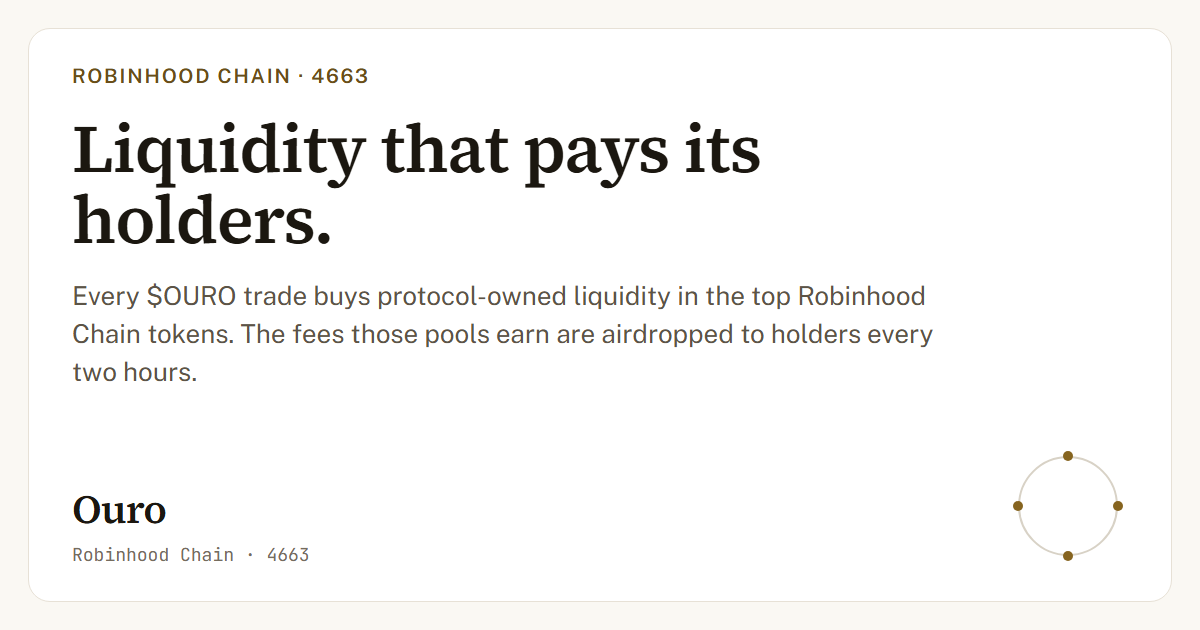
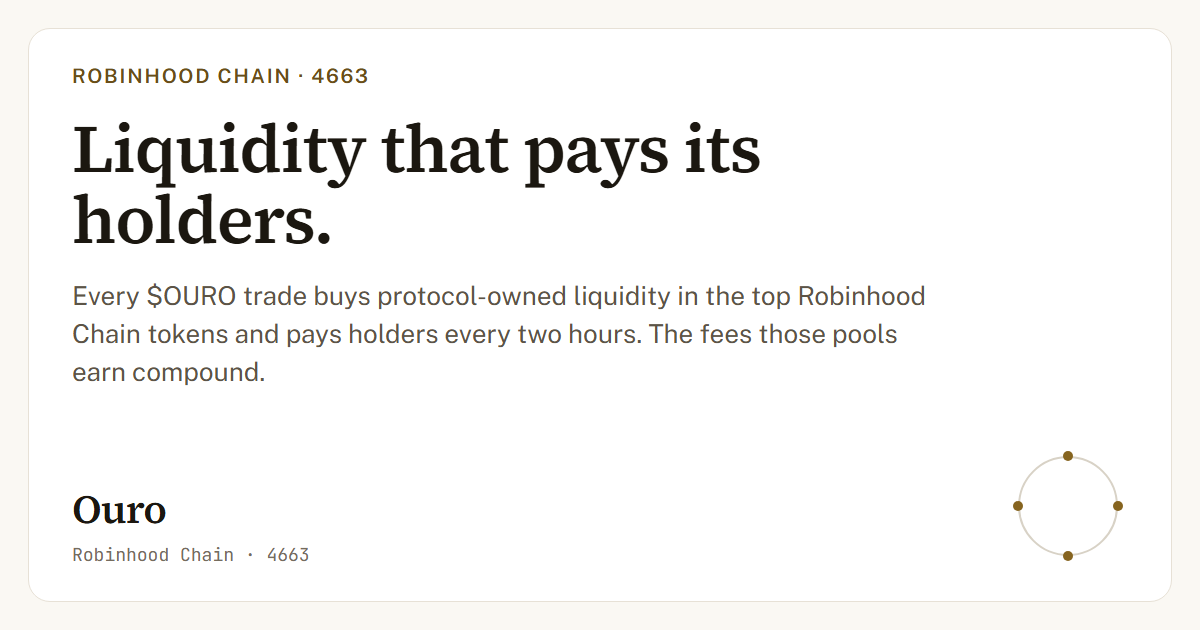
docs: 100% swap fee compounds LP copywriting updates

Changed region(s): [[0.185, 0.5127, 0.7708, 0.5429], [0.0617, 0.573, 0.2158, 0.6032]]

diff --git a/apps/site/app/content/protocol.ts b/apps/site/app/content/protocol.ts
@@ -4,20 +4,24 @@ import { site } from "./site";
  * Fees are left in the positions until they are worth collecting.
  *
  * A collect is a transaction, and so is moving what it returns. Sweeping $4 of fees costs a
- * meaningful fraction of $4, and that cost would come out of the airdrop. So the Reserve's positions
- * accrue until the threshold below has built up across all of them, and only then is a collection
- * taken and split on the usual 80 / 20 — four fifths to the wallet the Airdropper pays from, one
- * fifth compounded straight back into the positions. (Stated in dollars rather than percentages
- * here because the numbers are derived below, so the two cannot drift apart.) Nothing is lost by
- * waiting: uncollected fees sit in the position still earning, and the Ledger publishes the running
- * figure against the threshold.
+ * meaningful fraction of $4, and that cost would come straight out of what goes back into the pools.
+ * So the Reserve's positions accrue until the threshold below has built up across all of them, and
+ * only then is a collection taken. Nothing is lost by waiting: uncollected fees sit in the position
+ * still earning, and the Ledger publishes the running figure against the threshold.
  *
  * Protocol policy, not a contract rule.
  */
 export const COLLECT_THRESHOLD_USD = 100;
 
-/** Share of every collection airdropped to holders; the rest compounds into the Reserve. */
-export const FEE_SPLIT_HOLDERS_PCT = 80;
+/**
+ * Share of every collection that compounds straight back into the Reserve's positions.
+ *
+ * 100 since 2026-09-15, when the airdrop's fee leg was retired: until then it was 80 to holders and
+ * 20 back into the positions. The same move as the tax rebalance and the vault performance fee, both
+ * made the same day and for the same reason: a dollar handed out pays once, a dollar put back into a
+ * pool goes on earning. The airdrop is the tax's 1% leg now, and nothing else.
+ */
+export const FEE_SPLIT_RESERVE_PCT = 100;
 
 /** The tax on every buy and sell, in ETH. Fixed in letscash's hook at launch; not ours to change. */
 export const TRADE_TAX_PCT = 5;
@@ -52,22 +56,16 @@ export const TAX_SPLIT: SplitLeg[] = [
   { label: "letscash: the launchpad's platform fee", short: "letscash", pct: 0.3, tone: "faint" },
 ];
 
+/** One leg since 2026-09-15, kept as a split so the bar, the rows and the table read it as they read the tax. */
 export const FEE_SPLIT: SplitLeg[] = [
-  { label: "Holders: airdropped to every wallet above the line, as earned", short: "holders", pct: FEE_SPLIT_HOLDERS_PCT, tone: "ink" },
-  { label: "Reserve: tops up the positions, so the next cycle earns more", short: "Reserve", pct: 100 - FEE_SPLIT_HOLDERS_PCT, tone: "accent" },
+  { label: "Reserve: every fee goes back into the positions, so the next cycle earns more", short: "Reserve", pct: FEE_SPLIT_RESERVE_PCT, tone: "accent" },
 ];
 
-/** "3.3%", "0.4%", "80%": a leg's share, with no trailing zero on a whole number. */
+/** "3.3%", "0.4%", "100%": a leg's share, with no trailing zero on a whole number. */
 export const legPct = (leg: SplitLeg) => `${leg.pct}%`;
 
-/** "80 / 20": the fee split as one figure, for a heading and for the parameter table. */
-export const FEE_SPLIT_LABEL = FEE_SPLIT.map((l) => String(l.pct)).join(" / ");
-
-/** How a collection at the threshold divides, in whole dollars. Derived, so the copy cannot drift. */
-export const COLLECTION_SPLIT_USD = {
-  holders: (COLLECT_THRESHOLD_USD * FEE_SPLIT_HOLDERS_PCT) / 100,
-  reserve: (COLLECT_THRESHOLD_USD * (100 - FEE_SPLIT_HOLDERS_PCT)) / 100,
-};
+/** "100%": what a collection does, as one figure, for a heading and for the parameter table. */
+export const FEE_SPLIT_LABEL = FEE_SPLIT.map((l) => legPct(l)).join(" / ");
 
 /** The balance a wallet needs to be paid by the airdrop, in whole OURO. "The line" everywhere on the site. */
 export const LINE_TOKENS = 100_000;
@@ -183,8 +181,9 @@ export const RESERVE_V4_POSITIONS: V4PositionEntry[] = [
 /**
  * A token the airdrop pays in, for marking a wallet's holdings on /portfolio and the calculator's slice.
  *
- * The basket is CASHCAT, PONS, AI and microduck today. WETH is listed because the fee leg arrives as the pools
- * earned it (docs §05) and the airdrop wallet's queue already carries a WETH line. ouro-monitor names
+ * The basket is CASHCAT, PONS, AI and microduck today. WETH is listed because the airdrop wallet's queue
+ * carries a WETH line, and because the payouts made before the fee leg was retired on 2026-09-15 passed
+ * pool fees through in WETH, which /portfolio still has to mark. ouro-monitor names
  * every token a wallet holds and every token a payment carried, so a new constituent shows up on the
  * page before it is added here; this list is where each token's mark and its display name live.
  */
@@ -262,11 +261,11 @@ export const PARAMETERS: ParameterRow[] = [
   { parameter: "Trade tax", value: `${TRADE_TAX_PCT}% of the ETH leg`, mutable: "Fixed at launch" },
   { parameter: "Pool LP fee", value: "0%", mutable: "Fixed at creation" },
   { parameter: "Tax split", value: TAX_SPLIT.map((l) => `${legPct(l)} ${l.short}`).join(" / "), mutable: "Policy" },
-  { parameter: "Fee split: holders / Reserve", value: FEE_SPLIT_LABEL, mutable: "Policy" },
+  { parameter: "Pool fees", value: `${FEE_SPLIT_LABEL} compounded into the Reserve`, mutable: "Policy" },
   { parameter: "Airdrop minimum", value: "100,000 OURO (0.01%)", mutable: "Policy" },
   { parameter: "Fee collection threshold", value: "$100 of accrued LP fees", mutable: "Policy" },
   { parameter: "Airdrop cadence", value: "Every 2 hours", mutable: "Policy" },
-  { parameter: "Stream length", value: "~48 hours per collection", mutable: "Policy" },
+  { parameter: "Stream length", value: "~48 hours per wallet top-up", mutable: "Policy" },
   { parameter: "Basket", value: "CASHCAT + PONS + AI + microduck, toward ~5", mutable: "Policy" },
   { parameter: "Chain", value: "Robinhood Chain (4663)", mutable: "Fixed" },
 ];

diff --git a/apps/site/app/routes/docs.tsx b/apps/site/app/routes/docs.tsx
@@ -5,7 +5,6 @@ import type { Route } from "./+types/docs";
 import { Callout, LedgerTable, type LedgerColumn } from "@ouro/ds";
 import { AddressCell, Container, MicroLabel, PageHeader, PendingCell, SplitBar, SplitRows, fitTable, legRows, legWedges, mono } from "~/components/site";
 import {
-  COLLECTION_SPLIT_USD,
   COLLECT_THRESHOLD_USD,
   FEE_SPLIT,
   INFRASTRUCTURE,
@@ -74,7 +73,7 @@ const addrCols = (label: string): LedgerColumn[] => [
 ];
 
 const CANT: { lead: string; text: string }[] = [
-  { lead: "Can't mint.", text: " Fixed supply. Airdrops are fees already earned." },
+  { lead: "Can't mint.", text: " Fixed supply. Airdrops are bought with tax already paid." },
   { lead: "Can't change the tax.", text: " 5% is fixed in the letscash hook." },
   { lead: "Can't touch your wallet.", text: " Standard ERC20. No freeze, seize or clawback." },
 ];
@@ -82,13 +81,13 @@ const CANT: { lead: string; text: string }[] = [
 const FAQ: { q: string; a: string }[] = [
   {
     q: "How is Ouro different from HOOD10 or The Index?",
-    a: "They hand out every tax point, so payouts stop when volume cools. Ouro keeps 3.3% of a trade as fee-earning liquidity, airdrops 1% outright, and airdrops 80% of the fees that liquidity earns.",
+    a: "They hand out every tax point and keep nothing. Ouro airdrops 1% of a trade and keeps 3.3% as fee-earning liquidity it never hands out, and every fee that liquidity earns goes back into it.",
   },
   { q: "What do I have to do to get paid?", a: "Hold at least 100,000 $OURO in your own wallet. No stake, lock or claim. Exchange and bridge balances do not count." },
   { q: "I hold less than 100,000 $OURO. What then?", a: "Pool with others in the vaults. Deposits clear the line together; you earn in OURO, ETH or dollars." },
   {
     q: "What am I paid in, and when?",
-    a: "Tokens, every two hours. The tax leg is bought at market; the fee leg arrives as the pools earned it, usually basket tokens plus WETH.",
+    a: "Tokens, every two hours. Basket tokens, bought at market with the tax and handed out in kind.",
   },
   { q: "Is the basket safe? Are these stocks?", a: "No. They are crypto tokens on Robinhood Chain, including memecoins. They can go to zero." },
   {
@@ -144,7 +143,7 @@ export default function Docs() {
           <Doc id="d01" n="01" title="Overview">
             <P>
               A 5% tax on every $OURO trade buys tokens: 3.3% becomes protocol-owned liquidity (the Reserve), 1% is airdropped to holders, 0.7% covers ops and
-              the launchpad. 80% of the Reserve&apos;s fees are airdropped too.
+              the launchpad. Every fee the Reserve earns goes back into the Reserve.
             </P>
           </Doc>
 
@@ -155,7 +154,7 @@ export default function Docs() {
           </Doc>
 
           <Doc id="d03" n="03" title="The Loop">
-            <P>Each cycle deploys the accumulated tax on the split above and collects fees from the Reserve. Those fees split again:</P>
+            <P>Each cycle deploys the accumulated tax on the split above and collects fees from the Reserve. Those fees are not split. All of them go back in:</P>
             <SplitBar wedges={legWedges(FEE_SPLIT)} />
             <SplitRows rows={legRows(FEE_SPLIT)} />
           </Doc>
@@ -170,15 +169,15 @@ export default function Docs() {
 
           <Doc id="d05" n="05" title="The airdrop">
             <P>
-              Two legs: the tax leg, bought at market, and 80% of Reserve fees, passed through as the pools earned them. Hold at least 100,000 $OURO in your own
-              wallet. Nothing to stake, lock or claim.
+              One leg: 1% of every trade, bought at market and handed out in kind. Hold at least 100,000 $OURO in your own wallet. Nothing to stake, lock or
+              claim. What the Reserve earns is not part of it; that goes back into the pools.
             </P>
             <SplitRows
               rows={[
                 { label: "The line", value: "100,000 OURO · 0.01% of supply" },
                 { label: "Cadence", value: "Every 2 hours" },
-                { label: "Fees are collected once they reach", value: `${usd0(COLLECT_THRESHOLD_USD)} · then ${usd0(COLLECTION_SPLIT_USD.holders)} airdropped, ${usd0(COLLECTION_SPLIT_USD.reserve)} compounded` },
-                { label: "A collection is streamed over", value: "About 48 hours" },
+                { label: "Paid in", value: "Basket tokens, bought at market" },
+                { label: "A top-up of the airdrop wallet is streamed over", value: "About 48 hours" },
               ]}
             />
             <Callout title="What makes a cycle wait" style={{ marginTop: 14 }}>
@@ -212,11 +211,11 @@ export default function Docs() {
 
           <Doc id="d08" n="08" title="Risks">
             <P>
-              The tax leg tracks volume and stops with it. The fee leg needs pool fees. The basket can go to zero. LP can lose to holding. 5% both ways is
-              expensive for short-term trading. The rails are letscash&apos;s. One chain.
+              The airdrop is the tax leg alone, so it tracks volume and stops with it. The Reserve goes on earning either way, but that stays in the pools. The
+              basket can go to zero. LP can lose to holding. 5% both ways is expensive for short-term trading. The rails are letscash&apos;s. One chain.
             </P>
             <Callout tone="caution" title="No promises" style={{ marginTop: 14 }}>
-              An airdrop is a share of fees already earned. Not a yield promise. Not financial advice. Don&apos;t risk more than you can lose.
+              An airdrop is a share of tax already paid. Not a yield promise. Not financial advice. Don&apos;t risk more than you can lose.
             </Callout>
           </Doc>
 

diff --git a/apps/site/app/routes/home.tsx b/apps/site/app/routes/home.tsx
@@ -213,9 +213,9 @@ function LineBand() {
 /* ------------------------------------------------------------- The split */
 
 /**
- * The two splits the whole protocol runs on, as bars: what the 5% tax buys, and what a collection of
- * pool fees pays. The figures come from content/protocol, which the docs and the parameter table read
- * too, so the three places the site states them cannot drift apart.
+ * The two bars the whole protocol runs on: what the 5% tax buys, and where a collection of pool fees
+ * goes. The figures come from content/protocol, which the docs and the parameter table read too, so
+ * the three places the site states them cannot drift apart.
  */
 function SplitSection() {
   return (
@@ -223,7 +223,7 @@ function SplitSection() {
       <SectionHead
         kicker="The split"
         title="Where every trade goes."
-        sub="Two splits, and both are published. One divides the tax a trade pays, the other divides what the Reserve earns."
+        sub="Both are published. The tax a trade pays divides four ways. What the Reserve earns is not divided at all."
         action={<Link to="/docs/#d02">The method →</Link>}
       />
       <div className="cols-2">
@@ -238,7 +238,7 @@ function SplitSection() {
         <div>
           <div className="split-block__head">
             <span className="split-block__figure">{FEE_SPLIT_LABEL}</span>
-            <span className="split-block__note">of every fee the Reserve collects, once the accrued fees are worth a collection.</span>
+            <span className="split-block__note">of every fee the Reserve collects, back into the positions that earned it, once a collection is worth taking.</span>
           </div>
           <SplitBar wedges={legWedges(FEE_SPLIT)} />
           <SplitRows rows={legRows(FEE_SPLIT)} />
@@ -254,7 +254,7 @@ const STEPS: { n: string; title: string; text: string }[] = [
   { n: "01", title: "Trade", text: "Every $OURO swap pays a 5% tax, in ETH." },
   { n: "02", title: "Buy", text: "3.3% buys liquidity in the chain's deepest pools. 1% buys tokens for holders." },
   { n: "03", title: "Own", text: "That liquidity is the Reserve. The protocol keeps it." },
-  { n: "04", title: "Yield", text: "The Reserve earns swap fees. 80% is airdropped, 20% compounds." },
+  { n: "04", title: "Compound", text: "The Reserve earns swap fees. 100% goes back into compounding the LP." },
 ];
 
 /** The same four, for the plate: it takes them as a prop so the figure and the list cannot disagree. */
@@ -418,8 +418,8 @@ const CMP_HEAD: { label: string; sym: string | null; ouro?: boolean }[] = [
 
 const CMP_ROWS: [string, string, string, string][] = [
   ["What the tax buys", "All handed out", "All handed out", "1% out, 3.3% kept as LP"],
-  ["Holders are paid from", "The tax", "The tax", "Tax + pool fees"],
-  ["When volume cools", "Payouts stop", "Payouts stop", "Pools keep earning"],
+  ["What the protocol keeps", "Nothing", "Nothing", "The Reserve, for good"],
+  ["When volume cools", "Payouts stop", "Payouts stop", "Payouts thin, the Reserve keeps earning"],
 ];
 
 function DifferenceSection() {
@@ -477,7 +477,7 @@ const ROADMAP: { n: string; horizon: string; title: string; body: ReactNode }[] 
     n: "02",
     horizon: "Medium term",
     title: "Build the Reserve up",
-    body: "Keep buying protocol-owned liquidity with every trade. Deeper positions earn more fees, and 80% of those fees is what the airdrop pays.",
+    body: "Keep buying protocol-owned liquidity with every trade. Deeper positions earn more fees, and all of those fees go straight back into them.",
   },
   {
     n: "03",

diff --git a/apps/analytics/app/routes/airdrops.tsx b/apps/analytics/app/routes/airdrops.tsx
@@ -4,7 +4,7 @@ import type { Route } from "./+types/airdrops";
 import { Badge, Button, Callout, Card, Input, LedgerTable, Stat, Tabs, type BadgeTone, type LedgerColumn } from "@ouro/ds";
 import { OuroFoot } from "~/components/OuroFoot";
 import { Bars, Container, KVRow, PageHeader, Pager, SectionHead, body14, mono } from "~/components/site";
-import { COLLECT_THRESHOLD_USD, LINE_TOKENS, TOTAL_SUPPLY_TOKENS } from "~/content/protocol";
+import { LINE_TOKENS, TOTAL_SUPPLY_TOKENS } from "~/content/protocol";
 import { externalLinkProps, ouroUrl, site } from "~/content/site";
 import { useClock } from "~/hooks/useClock";
 import { pageMeta } from "~/lib/meta";
@@ -63,8 +63,6 @@ const CYCLE_COLS: LedgerColumn[] = [
 const HISTORY_PAGE_SIZE = 12;
 /** Cycles the table holds, newest first; the totals above it come from every day, not from these. */
 const TABLE_CYCLES = 50;
-
-const THRESHOLD = `$${COLLECT_THRESHOLD_USD.toLocaleString("en-US")}`;
 
 /** The transactions that paid a cycle, in the order they landed. A cycle number can be paid more than once. */
 function cycleTxs(c: OuroCycle): string[] {
@@ -311,7 +309,6 @@ export default function Airdrops() {
   const ethUsd = reserve.data?.positions.flatMap((p) => [p.side0, p.side1]).find((s) => s.symbol === "WETH")?.priceUsd ?? null;
   const hookEth = pending.data?.pendingWei ? Number(pending.data.pendingWei) / 1e18 : null;
   const hookUsd = hookEth === null || ethUsd === null ? null : hookEth * ethUsd;
-  const uncollected = reserve.data?.totals.uncollectedFeesUsd ?? null;
 
   return (
     <Container className="page">
@@ -371,10 +368,10 @@ export default function Airdrops() {
         </div>
         <Card label="On its way">
           <KVRow label="01 · Tax still in the letscash hook" value={hookUsd !== null ? fmtUsd(hookUsd) : hookEth !== null ? `${fmtEth(hookEth)} ETH` : "—"} py={12} />
-          <KVRow label="02 · Collected into the airdrop wallet" value={fmtUsd(pending.data?.queuedUsd ?? null)} py={12} />
-          <KVRow label={`03 · LP fees accrued, of the ${THRESHOLD} threshold`} value={fmtUsd(uncollected)} py={12} border="none" />
+          <KVRow label="02 · Collected into the airdrop wallet" value={fmtUsd(pending.data?.queuedUsd ?? null)} py={12} border="none" />
           <div className="card-foot" style={{ marginTop: 6 }}>
-            None of these is a scheduled amount. A collection streams out over about 48 hours, so this is the pool the next several cycles draw from.
+            Neither of these is a scheduled amount. Each top-up streams out over about 48 hours, so this is the pool the next several cycles draw from. The
+            fees the Reserve earns are not on this list: they compound back into the pools.
           </div>
         </Card>
       </div>

diff --git a/apps/analytics/app/routes/ledger.tsx b/apps/analytics/app/routes/ledger.tsx
@@ -4,7 +4,7 @@ import type { Route } from "./+types/ledger";
 import { Badge, Callout, Card, LedgerTable, Stat, type BadgeTone, type LedgerColumn } from "@ouro/ds";
 import { OuroFoot } from "~/components/OuroFoot";
 import { AddressCell, Bars, Container, KVRow, MicroLabel, PageHeader, SectionHead, body14, mono } from "~/components/site";
-import { COLLECTION_SPLIT_USD, COLLECT_THRESHOLD_USD } from "~/content/protocol";
+import { COLLECT_THRESHOLD_USD } from "~/content/protocol";
 import { externalLinkProps, ouroUrl, site } from "~/content/site";
 import { useClock } from "~/hooks/useClock";
 import { navWithV4, useReserveV4, type ReserveV4Row } from "~/hooks/useReserveV4";
@@ -93,8 +93,6 @@ const EVENT_LABEL: Record<string, string> = {
 /** Round policy figures as copy, so they are not run through `fmtUsd` ("$100.00"). */
 const usd0 = (n: number) => `$${n.toLocaleString("en-US")}`;
 const THRESHOLD = usd0(COLLECT_THRESHOLD_USD);
-const TO_HOLDERS = usd0(COLLECTION_SPLIT_USD.holders);
-const TO_RESERVE = usd0(COLLECTION_SPLIT_USD.reserve);
 
 function pairOf(p: ReservePosition): string {
   return `${p.side0.symbol ?? "?"} / ${p.side1.symbol ?? "?"}`;
@@ -417,14 +415,15 @@ export default function Ledger() {
               label="Fees are collected at"
               value={
                 <>
-                  {THRESHOLD} accrued <span style={{ color: "var(--text-faint)" }}>→</span> {TO_HOLDERS} airdropped, {TO_RESERVE} compounded
+                  {THRESHOLD} accrued <span style={{ color: "var(--text-faint)" }}>→</span> all of it compounded
                 </>
               }
               border="none"
             />
           </div>
           <div className="kv-note">
-            Small collects are skipped for gas. What was paid out is on the <Link to="/airdrops/">airdrops page →</Link>
+            Small collects are skipped for gas, and what is collected goes back into the positions. The airdrop is paid from the tax instead: every payout is on
+            the <Link to="/airdrops/">airdrops page →</Link>
           </div>
         </div>
       </div>

diff --git a/apps/analytics/app/content/protocol.ts b/apps/analytics/app/content/protocol.ts
@@ -13,20 +13,19 @@ import { site } from "./site";
  * Fees are left in the positions until they are worth collecting.
  *
  * A collect is a transaction, and so is moving what it returns. Sweeping $4 of fees costs a
- * meaningful fraction of $4, and that cost would come out of the airdrop. So the Reserve's positions
- * accrue until the threshold has built up across all of them, and only then is a collection taken
- * and split on the usual 80 / 20. Protocol policy, not a contract rule.
+ * meaningful fraction of $4, and that cost would come straight out of what goes back into the pools.
+ * So the Reserve's positions accrue until the threshold has built up across all of them, and only
+ * then is a collection taken. Protocol policy, not a contract rule.
  */
 export const COLLECT_THRESHOLD_USD = 100;
 
-/** Share of every collection airdropped to holders; the rest compounds into the Reserve. */
-export const FEE_SPLIT_HOLDERS_PCT = 80;
-
-/** How a collection at the threshold divides, in whole dollars. Derived, so the copy cannot drift. */
-export const COLLECTION_SPLIT_USD = {
-  holders: (COLLECT_THRESHOLD_USD * FEE_SPLIT_HOLDERS_PCT) / 100,
-  reserve: (COLLECT_THRESHOLD_USD * (100 - FEE_SPLIT_HOLDERS_PCT)) / 100,
-};
+/**
+ * Share of every collection that compounds straight back into the Reserve's positions.
+ *
+ * 100 since 2026-09-15, when the airdrop's fee leg was retired: until then it was 80 to holders and
+ * 20 back into the positions. The airdrop is the tax's 1% leg now, and nothing else.
+ */
+export const FEE_SPLIT_RESERVE_PCT = 100;
 
 /** The balance a wallet needs to be paid by the airdrop, in whole OURO. "The line" on every page. */
 export const LINE_TOKENS = 100_000;

diff --git a/apps/site/app/content/vaults.ts b/apps/site/app/content/vaults.ts
@@ -209,7 +209,8 @@ export const TERMS = {
    * All of it into the LP pools since 2026-09-15. It was 7 points to airdrops and 3 to ops until
    * then; the rebalance that moved the trade tax onto its LP leg moved this one the same way, and
    * for the same reason: a point spent on an airdrop pays once, a point put in a pool goes on
-   * earning, and the fees it earns are what the airdrop is paid from.
+   * earning. The fees those pools earn compound back into them from the same day, so nothing put
+   * in here leaks back out (FEE_SPLIT_RESERVE_PCT in content/protocol.ts).
    *
    * Operator policy, not a contract rule, and said as such wherever it appears. On chain the vault
    * pays the whole fee to a single `feeRecipient` (DividendVaultBase.feeRecipient) and has no notion

diff --git a/apps/site/app/styles/site.css b/apps/site/app/styles/site.css
@@ -607,7 +607,7 @@ button:focus-visible,
 .faq__q { font-size: 15px; font-weight: 600; }
 .faq__a { font-size: 14px; line-height: 1.65; color: var(--text-secondary); margin-top: 6px; }
 
-/* Home's split section: each bar is introduced by the rate it divides ("5%", "80 / 20") and one line
+/* Home's split section: each bar is introduced by the rate it divides ("5%", "100%") and one line
    saying what that rate is taken from. The figure is display type at the size of a stat, the note is
    the body measure beside it, and the two sit on a baseline so a wrapped note still lines up. */
 .split-block__head { display: flex; gap: 16px; align-items: baseline; flex-wrap: wrap; padding-bottom: 4px; }

diff --git a/apps/site/app/content/site.ts b/apps/site/app/content/site.ts
@@ -16,7 +16,7 @@ export const site = {
   /** The hero's headline and the footer's italic line. One sentence, declarative, no exclamation. */
   tagline: "Liquidity that pays its holders.",
   description:
-    "Every $OURO trade buys protocol-owned liquidity in the top Robinhood Chain tokens. The fees those pools earn are airdropped to holders every two hours.",
+    "Every $OURO trade buys protocol-owned liquidity in the top Robinhood Chain tokens and pays holders every two hours. The fees those pools earn compound.",
   xHandle,
   tgHandle,
   /**

diff --git a/apps/analytics/app/registry.ts b/apps/analytics/app/registry.ts
@@ -244,7 +244,7 @@ export const PROJECTS: Project[] = [
     adapter: "ouro",
     operator: "ouro",
     blurb:
-      "Taxes its own trades and splits the proceeds: half to holders as an airdrop, half into liquidity the protocol keeps and earns fees on.",
+      "Taxes its own trades: one point is airdropped to holders, 3.3 buy liquidity the protocol keeps, and every fee that liquidity earns goes back into it.",
     coverage: {
       price: MARKET_MEASURED,
       marketCap: MARKET_MEASURED,

diff --git a/apps/site/README.md b/apps/site/README.md
@@ -230,7 +230,7 @@ written rather than installed so one 21-character URL does not pull a dependency
 
 ## Before launch
 
-- **The mechanics changed on 2026-08-31** (5% tax · 4% basket / 1% ops · fees 80% airdropped to holders in kind / 20% compounded into the Reserve · no staking · no burn).
+- **The mechanics changed on 2026-08-31, and again on 2026-09-15** (5% tax · 3.3% LP / 1% airdrop / 0.4% ops / 0.3% letscash · every pool fee compounded back into the Reserve, none of it airdropped · no staking · no burn).
   The site copy and `docs/DOCS.md` are updated; **the contracts in `../basket-flywheel` are not** — they still ship a 2.5% tax hard-capped at 3%, a `StakingVault`
   and a burn. See that repo's `CONTRACTS.md` → "The design has moved ahead of this code".
 - `content/protocol.ts` → set the tax ceiling the hook will enforce, then state it in docs §10, §11 and the "Can the team rug?" FAQ (they currently say
